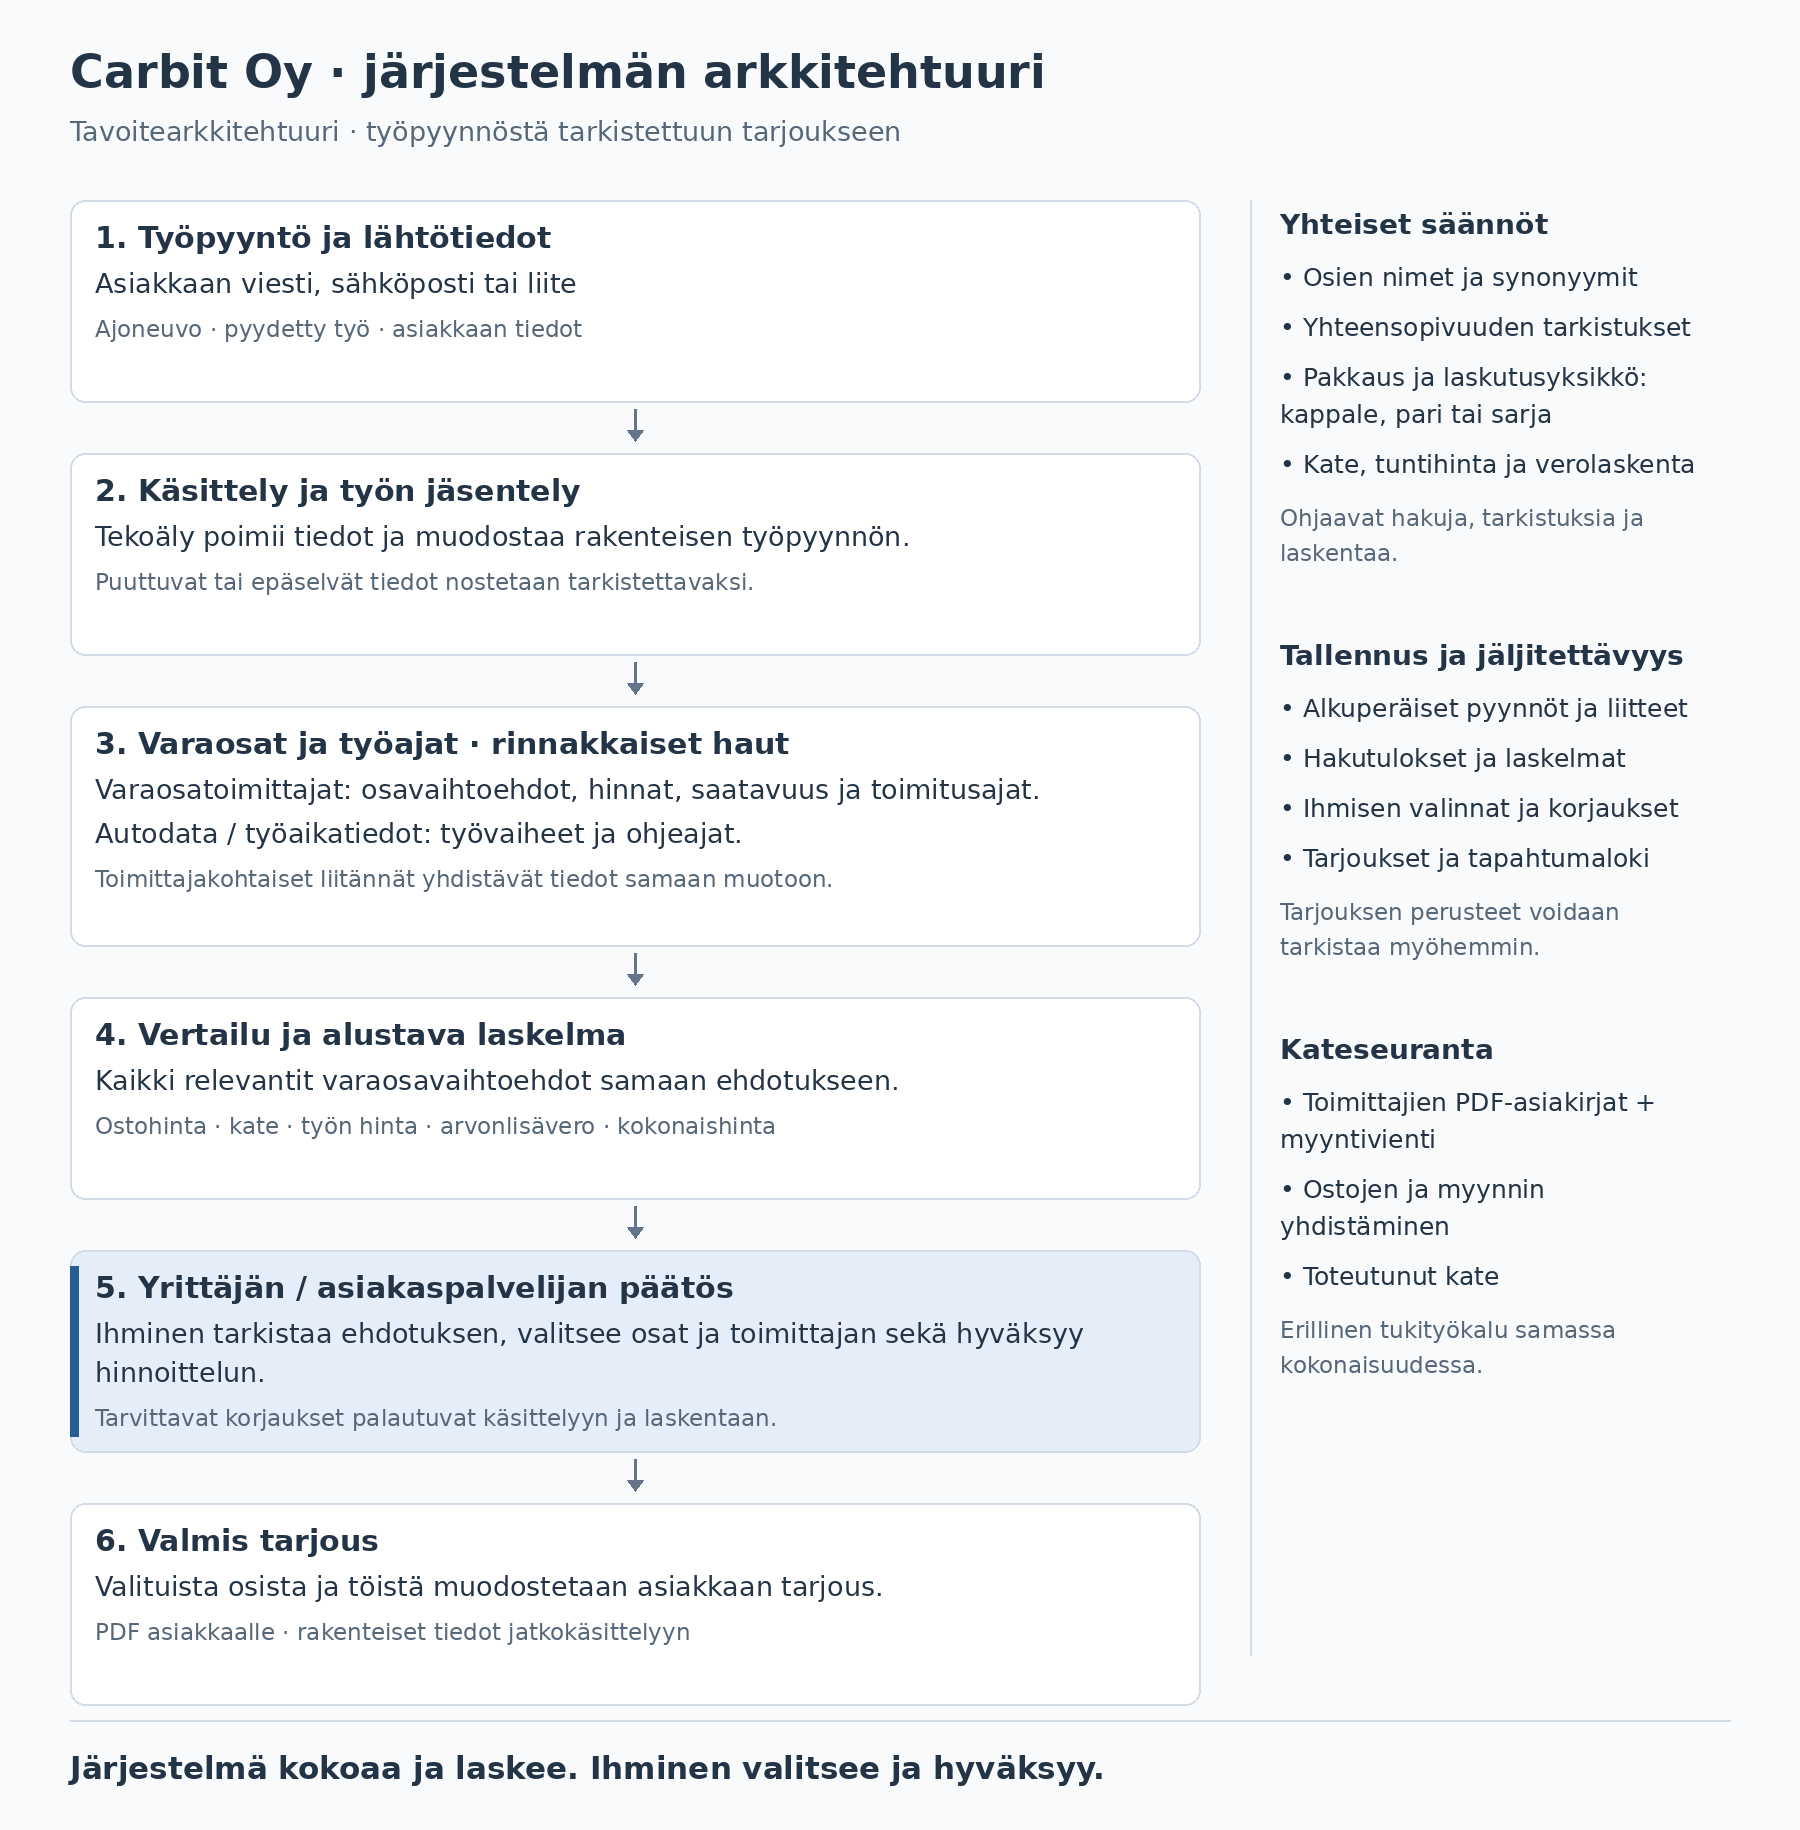
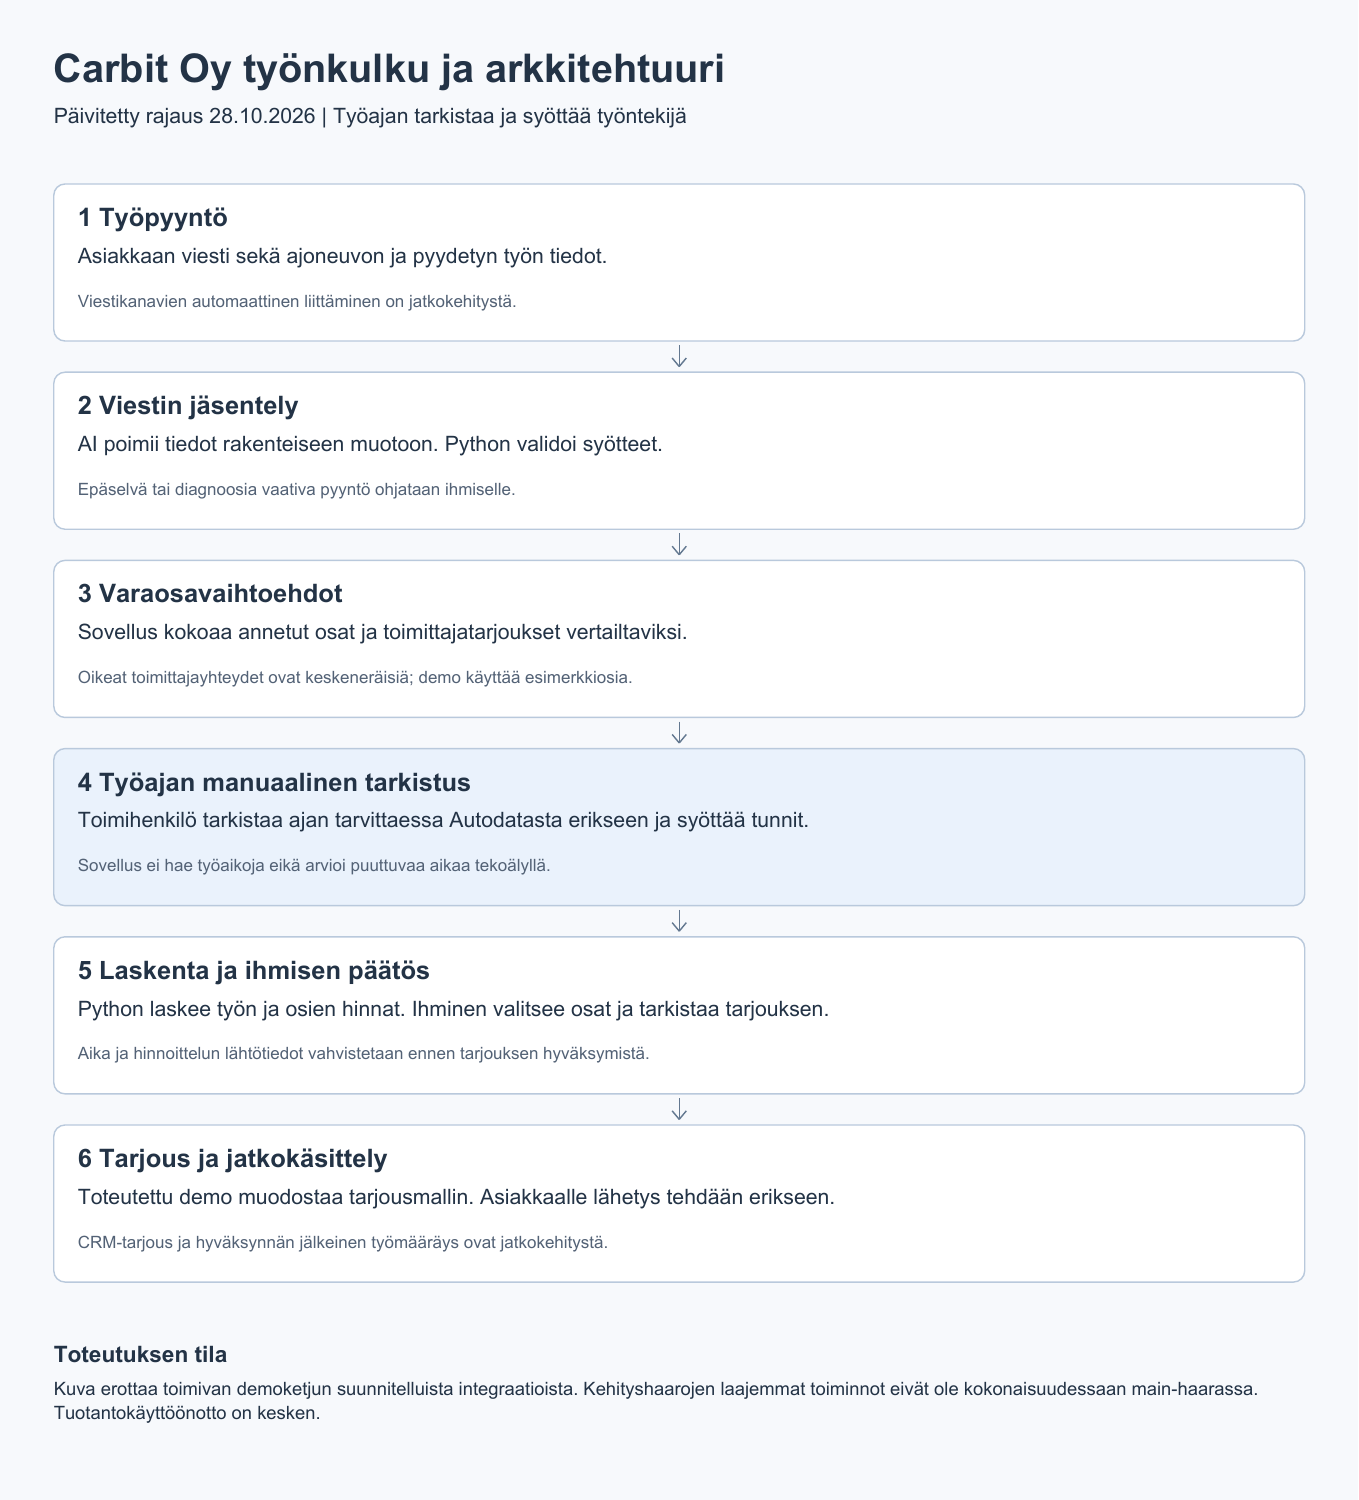
docs: replace automatic labour lookup with manual entry workflow

diff --git a/docs/visualizations/tyonkulku.md b/docs/visualizations/tyonkulku.md
@@ -1,0 +1,34 @@
+# Carbitin työnkulku
+Päivitetty 28.10.2026.
+
+## Rajaus
+Automaattinen työaikahaku on poistettu tavoitellusta työnkulusta. Toimihenkilö tarkistaa korjaus- tai huoltotyön ajan tarvittaessa Autodatasta erikseen ja syöttää tunnit sovellukseen. Autodata ei ole sovelluksen integraatio. Tekoäly ei keksi puuttuvaa työaikaa.
+
+![Työnkulku ja manuaalinen työajan syöttö](Carbit-arkkitehtuuri.png)
+
+## Viestistä tarjousluonnokseen
+```mermaid
+flowchart TD
+  A["Asiakkaan viesti"] --> B["AI jäsentää ja Python validoi"]
+  B --> C{"Tarvitaanko ihmisen arviota?"}
+  C -->|Kyllä| D["Toimihenkilö selvittää pyynnön"]
+  D --> B
+  C -->|Ei| E["Varaosavaihtoehdot"]
+  E --> F["Toimihenkilö tarkistaa ja syöttää työajan"]
+  F --> G["Python laskee tarjousluonnoksen"]
+  G --> H["Ihminen valitsee osat ja tarkistaa hinnat"]
+  H --> I["Tarkistettu tarjousmalli"]
+```
+
+Varaosavaihtoehdot voivat demossa olla esimerkkitietoja. Oikeiden toimittajien integraatiot ovat erillistä jatkokehitystä. Laskenta käyttää syötettyä työaikaa; työajan hakua ei korvata toisella automaattisella lähteellä.
+
+## Toteutettu ja suunniteltu
+- Main-haaran demoketju sisältää viestin tulkinnan, rakenteisen validoinnin, ihmisen varaosavalinnan ja sääntöpohjaisen tarjouslaskennan. Kutsuja antaa työajan ja varaosatiedot.
+- Laajempi selain-, tunnistautumis- ja tallennustoteutus sijaitsee kehityshaaroissa. Tämä dokumentointipäivitys ei siirrä niitä main-haaraan.
+- Viestikanavat, oikeat toimittajayhteydet, CRM-tarjoukset ja hyväksynnän jälkeiset työmääräykset ovat keskeneräistä jatkokehitystä. Tuotantokäyttöönotto on kesken.
+- Puuttuva aika selvitetään ihmisen toimesta ennen tarjouksen hyväksymistä. Tämä on käyttöprosessin vaatimus, ei väite uuden käyttöliittymäeston toteutuksesta.
+
+## Demon esitystapa
+Näytä asiakkaan viesti, tulkinta, varaosavaihtoehdot, työntekijän antama esimerkkityöaika, ihmisen valinta ja laskennan tulos. Kerro erikseen, mitkä tiedot ovat esimerkkitietoja. Älä esittele automaattista työaikahakua tai keskeneräistä integraatiota toimivana ominaisuutena.
+
+Historialliset päätöspuut kuvaavat niihin merkittyä lähdekoodiversiota. Työajan kustannuslaskenta säilyy: manuaalinen syöttö korvaa vain tietojen haun.

diff --git a/README.md b/README.md
@@ -1,11 +1,11 @@
 # CarbitOy
-IT-Engineering Bachelor Degree's Practice - customer inquiry to work offer workflow automation
+ICT-insinööriopintojen työharjoitteluprojekti: asiakkaan työtiedustelusta ihmisen tarkistamaan tarjousluonnokseen.
 
-## Visualisoinnit
+## Työnäyte ja nykyinen rajaus
+AI jäsentää viestin, Python validoi tiedot ja laskee tarjouksen. Ihminen valitsee varaosat sekä tarkistaa ja syöttää työajan. **Sovellus ei hae työaikoja Autodatasta tai muusta palvelusta.** Toimihenkilö käyttää Autodataa tarvittaessa erikseen.
 
-[Arkkitehtuurikuva ja toteutettujen päätösketjujen dokumentaatio](docs/visualizations/README.md).
+- [Nykyinen työnkulku ja demon rajat](docs/visualizations/tyonkulku.md)
+- [Arkkitehtuurikuva](docs/visualizations/Carbit-arkkitehtuuri.png)
+- [Päätöspuut ja versioiden tilannekuvat](docs/visualizations/README.md)
 
-- [Yrittäjälle tarkoitettu tavoitearkkitehtuuri](docs/visualizations/Carbit-arkkitehtuuri.png)
-- [Toteutetut päätöspuut PDF-muodossa](docs/visualizations/Carbit-toteutetut-paatospuut.pdf)
-- [Päätöspuut erillisinä PNG-kuvina](docs/visualizations/decision-trees/)
-
+Main sisältää vanhemman demototeutuksen. Laajempi sovellus on kehityshaaroissa; ulkoiset integraatiot ja tuotantokäyttöönotto ovat kesken. Visualisointien päivittäminen ei muuta sovelluskoodia tai julkaistua selain-demoa.

diff --git a/docs/visualizations/README.md b/docs/visualizations/README.md
@@ -1,12 +1,18 @@
-# Carbit Oy - arkkitehtuuri ja päätöspuut
+# Carbit Oy työnkulku ja päätöspuut
 
-Visualisoinnit laadittu 2.10.2026.
+## Nykyinen työnkulku 28.10.2026
 
-## Tavoitearkkitehtuuri
+**Työaika tarkistetaan ja syötetään käsin. Automaattinen työaikahaku on rajattu pois.** Toimihenkilö katsoo ajan tarvittaessa Autodatasta erikseen.
 
-Yrittäjälle tarkoitettu kokonaiskuva kuvaa projektin tavoitetta. Kaikki kuvan liitännät ja vaiheet eivät ole vielä toteutettuja.
+[Nykyinen työnkulku ja demon rajat](tyonkulku.md)
 
-![Carbit Oy:n tavoitearkkitehtuuri](Carbit-arkkitehtuuri.png)
+![Päivitetty työnkulku ja arkkitehtuuri](Carbit-arkkitehtuuri.png)
+
+Kuva erottaa toteutetun demoketjun keskeneräisistä integraatioista. Työajan kustannuslaskenta säilyy.
+
+## Historialliset päätöspuut
+
+Alla oleva dokumentaatio kuvaa siihen merkittyä lähdekoodiversiota. Se ei lupaa automaattista työaikahakua.
 
 ## Toteutetut päätösketjut
 
